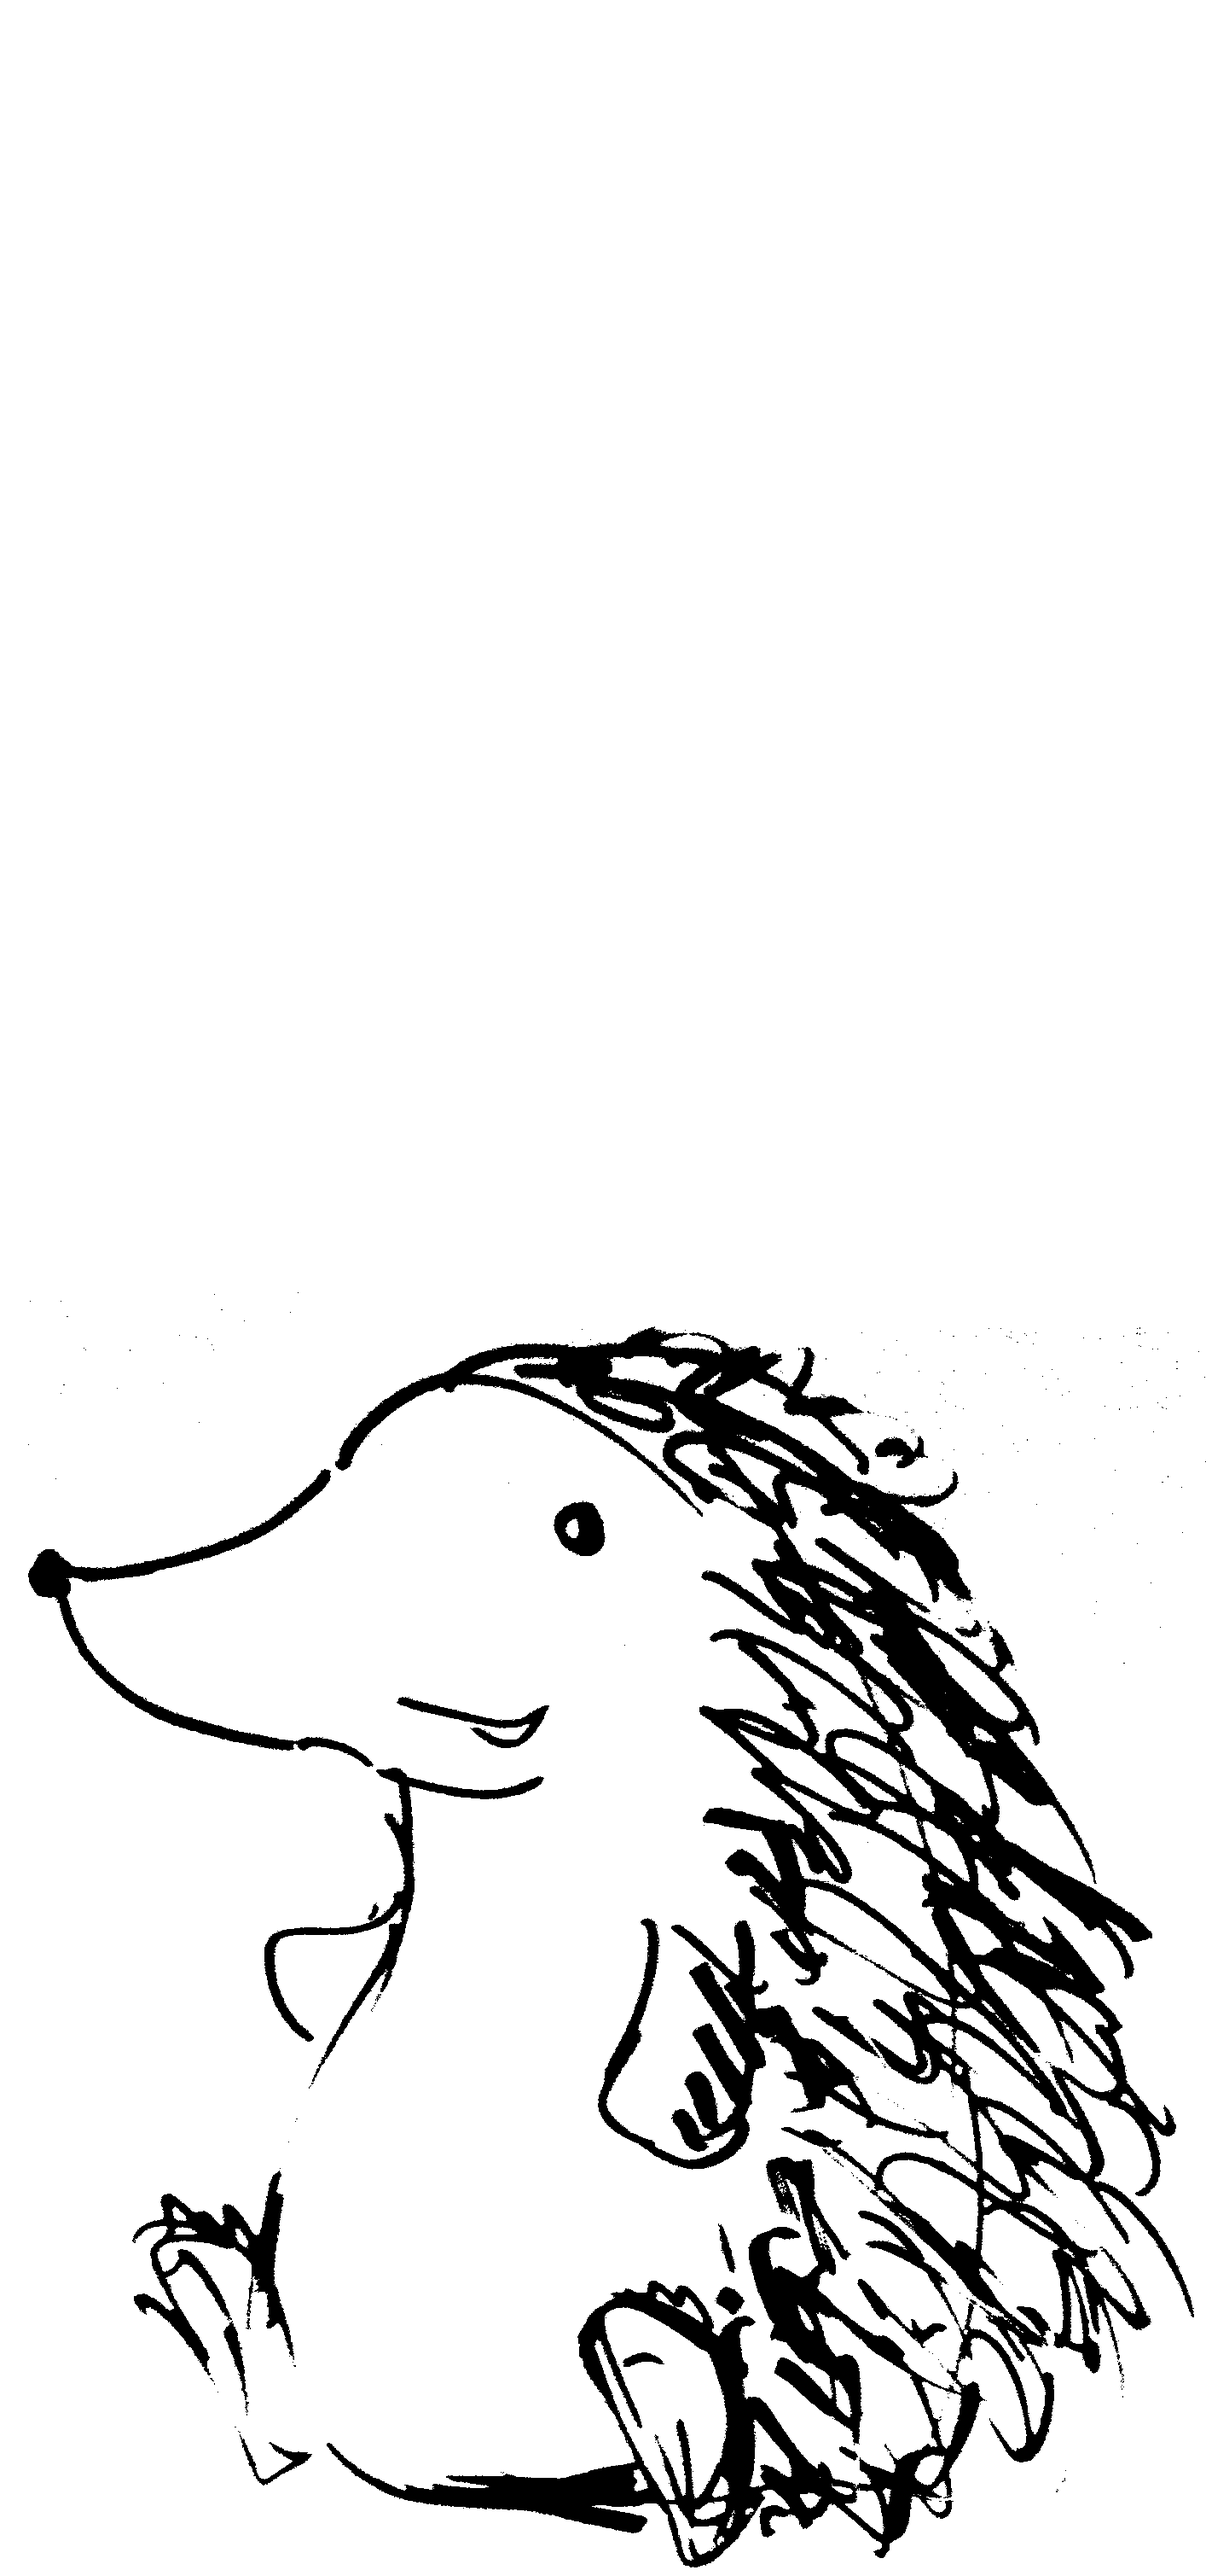
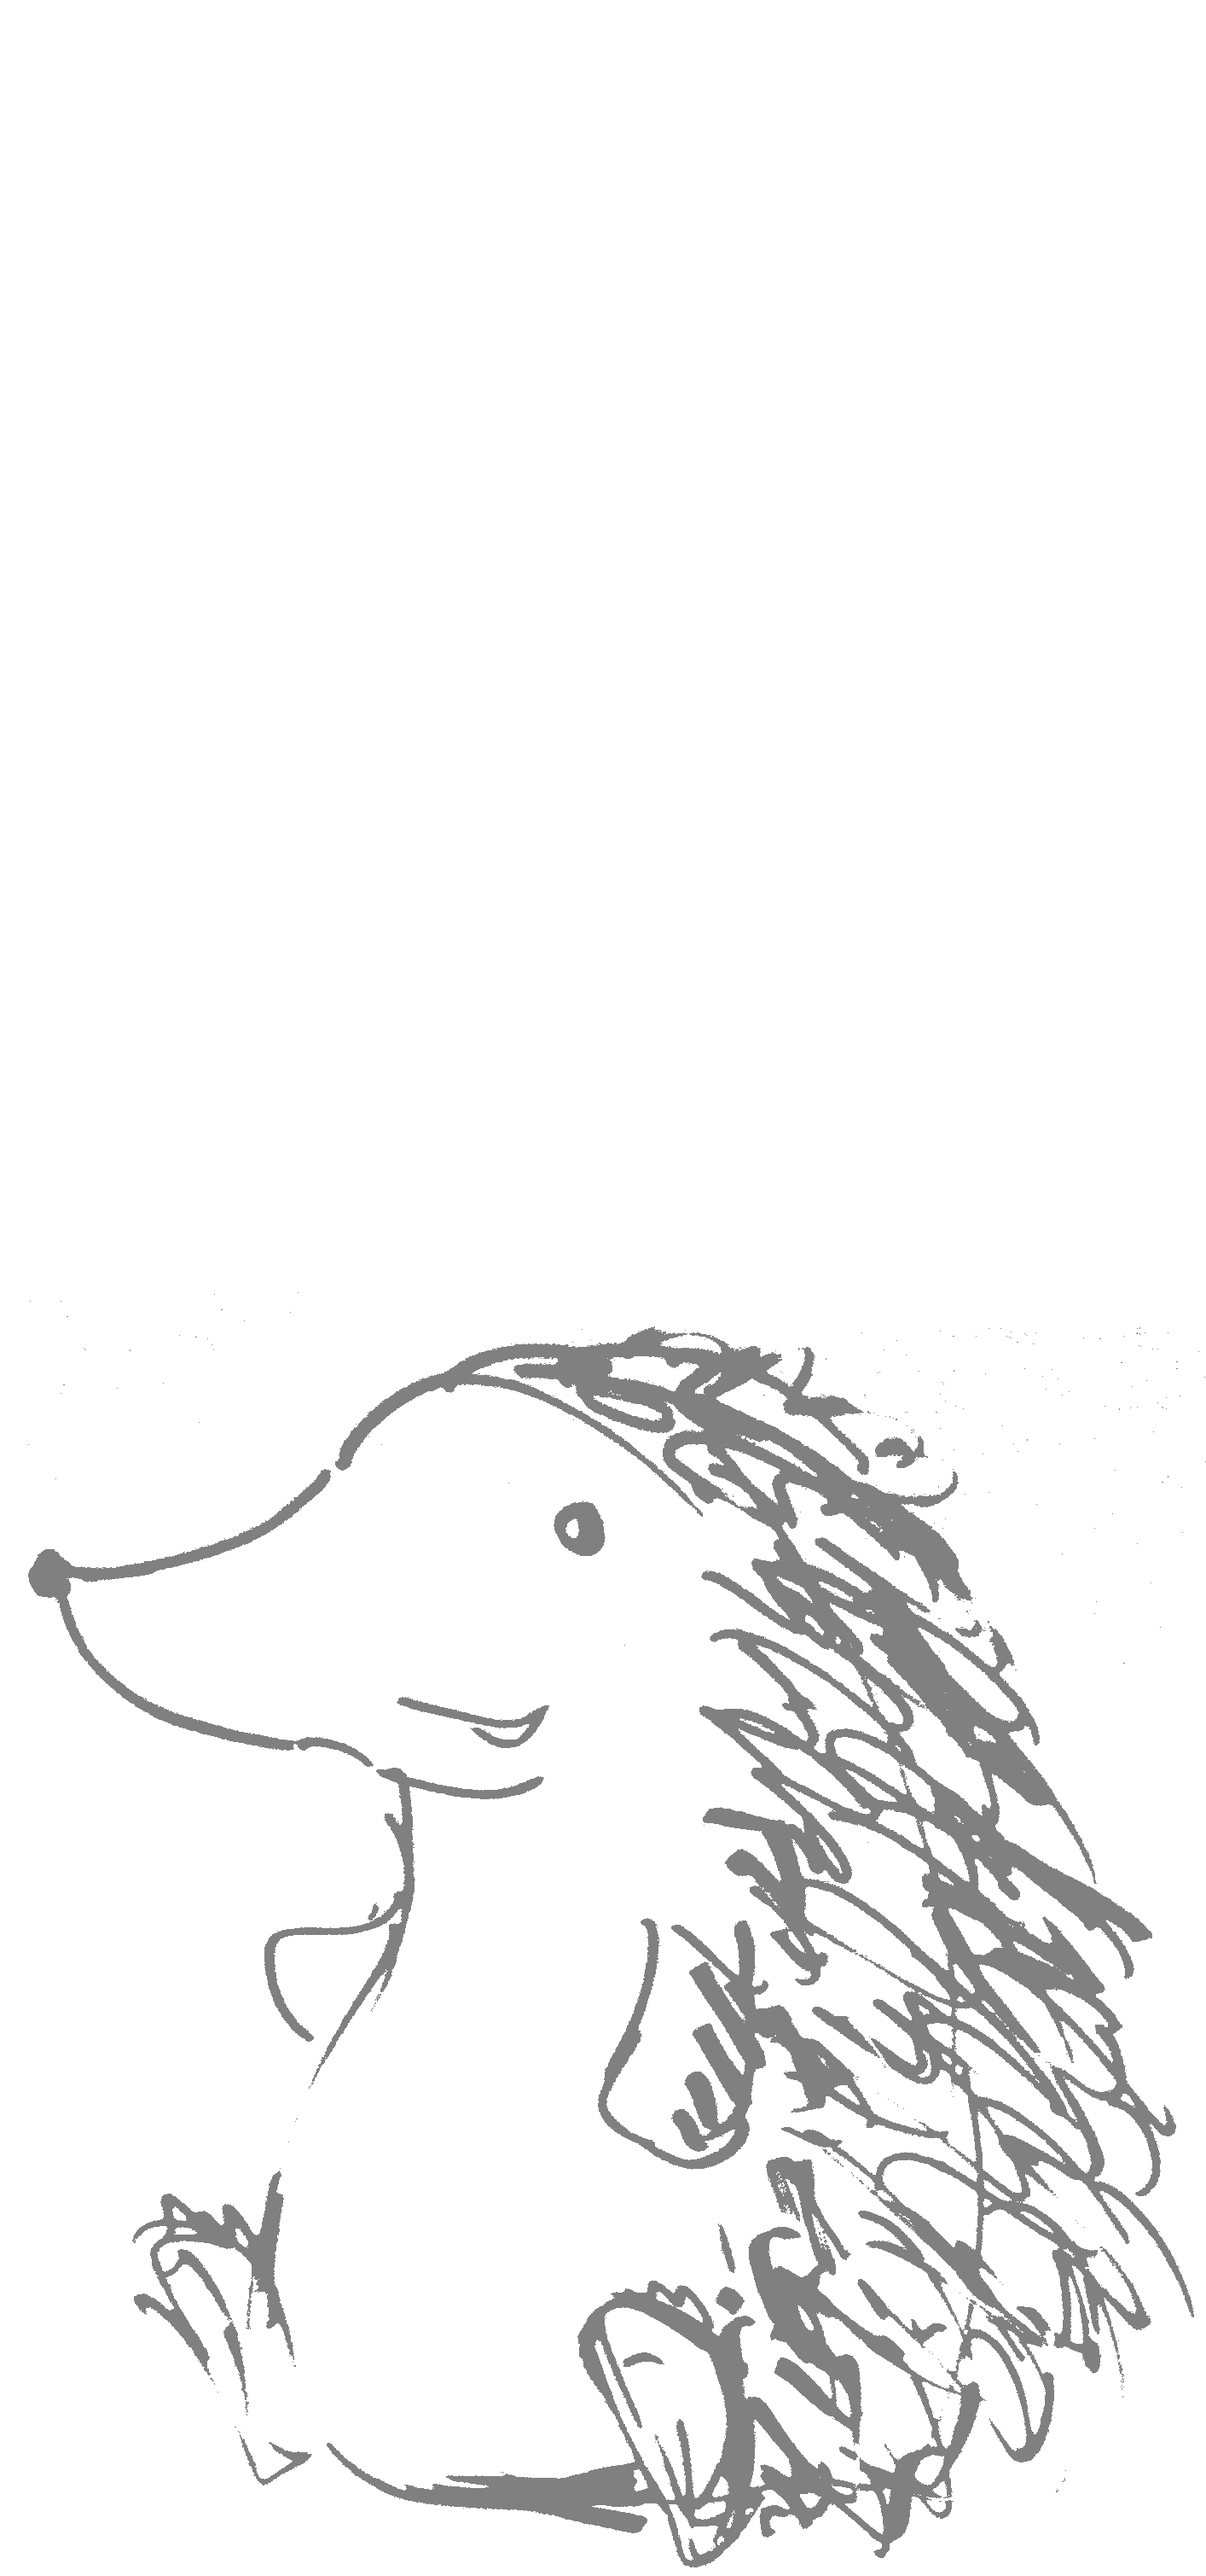
make background a little dimmer, add margins

diff --git a/public/styles/styles.css b/public/styles/styles.css
@@ -29,25 +29,38 @@ a {
 }
 
 h4 {
-  margin-bottom: 0;
-  margin-top: 10px;
+  margin: 0;
 }
 
 p {
 
 }
 
+h1 {
+  font-family: 'Shadows Into Light', cursive;
+  letter-spacing: 1px;
+  margin: 0;
+  padding: 0;
+} 
+
 .quickadd, .description, footer {
   font-family: 'Shadows Into Light', cursive;
   letter-spacing: 1px;
 }
 
-button.quickadd {
+.addnewscreen {
+  margin-left: 10px;
+}
+
+button {
+  margin-top: 10px;
   font-size: 24px;
+  font-family: 'Shadows Into Light', cursive;
 }
 
 input[type=checkbox] {
   margin-right: 20px;
+  font-size: 24px;
 }
 
 p.description {
@@ -56,6 +69,13 @@ p.description {
 
 #item {
   width: 100%;
+  font-size: 32px;
+  font-family: 'Shadows Into Light', cursive;
+}
+
+#description {
+  font-size: 24px;
+  font-family: 'Shadows Into Light', cursive;
 }
 
 textarea {
@@ -83,3 +103,22 @@ input[type=checkbox]:checked:before {
   float: right;
   left: 0%;
 }
+
+fieldset {
+  border: 0px;
+}
+
+div.box {
+  border: 2px black solid;
+  padding: 10px;
+}
+
+div.box form {
+  margin: 0;
+}
+
+body {
+  padding-left: 15%;
+  padding-right: 15%;
+/*  width: 100%;
+*/}
